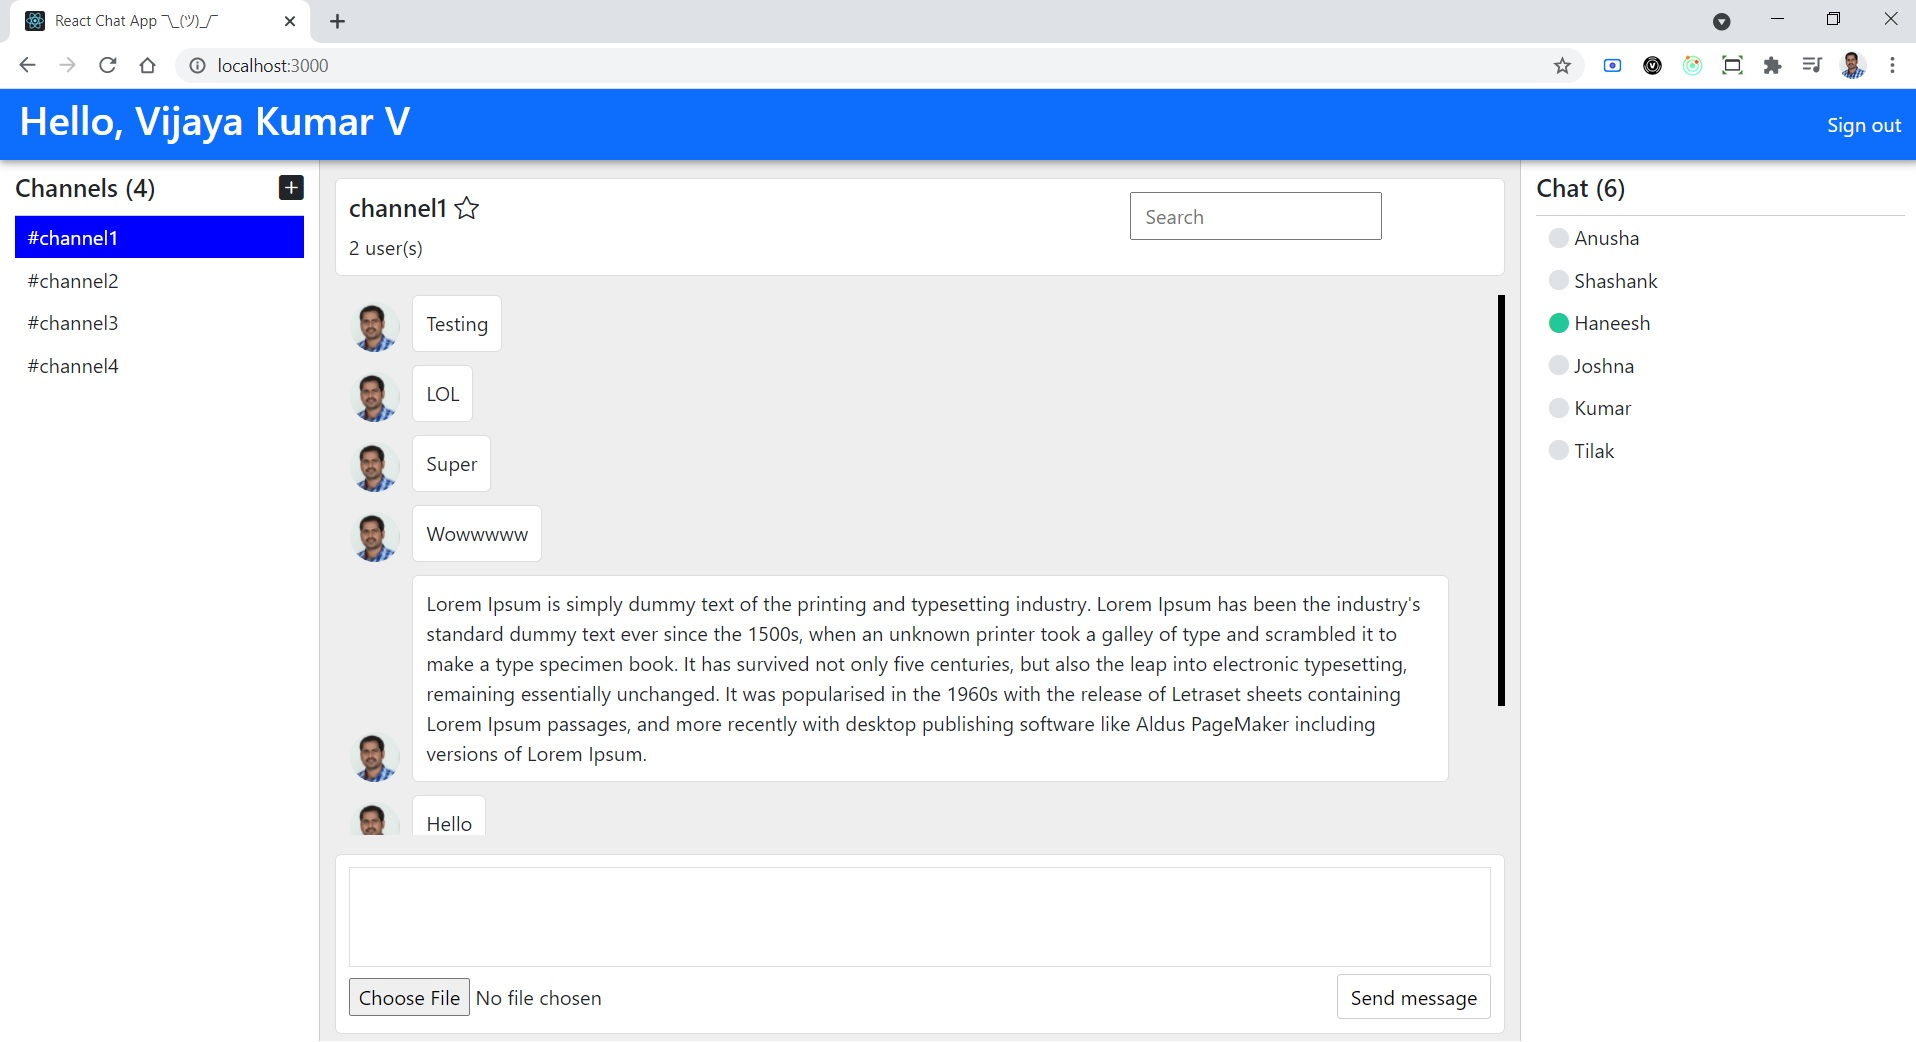
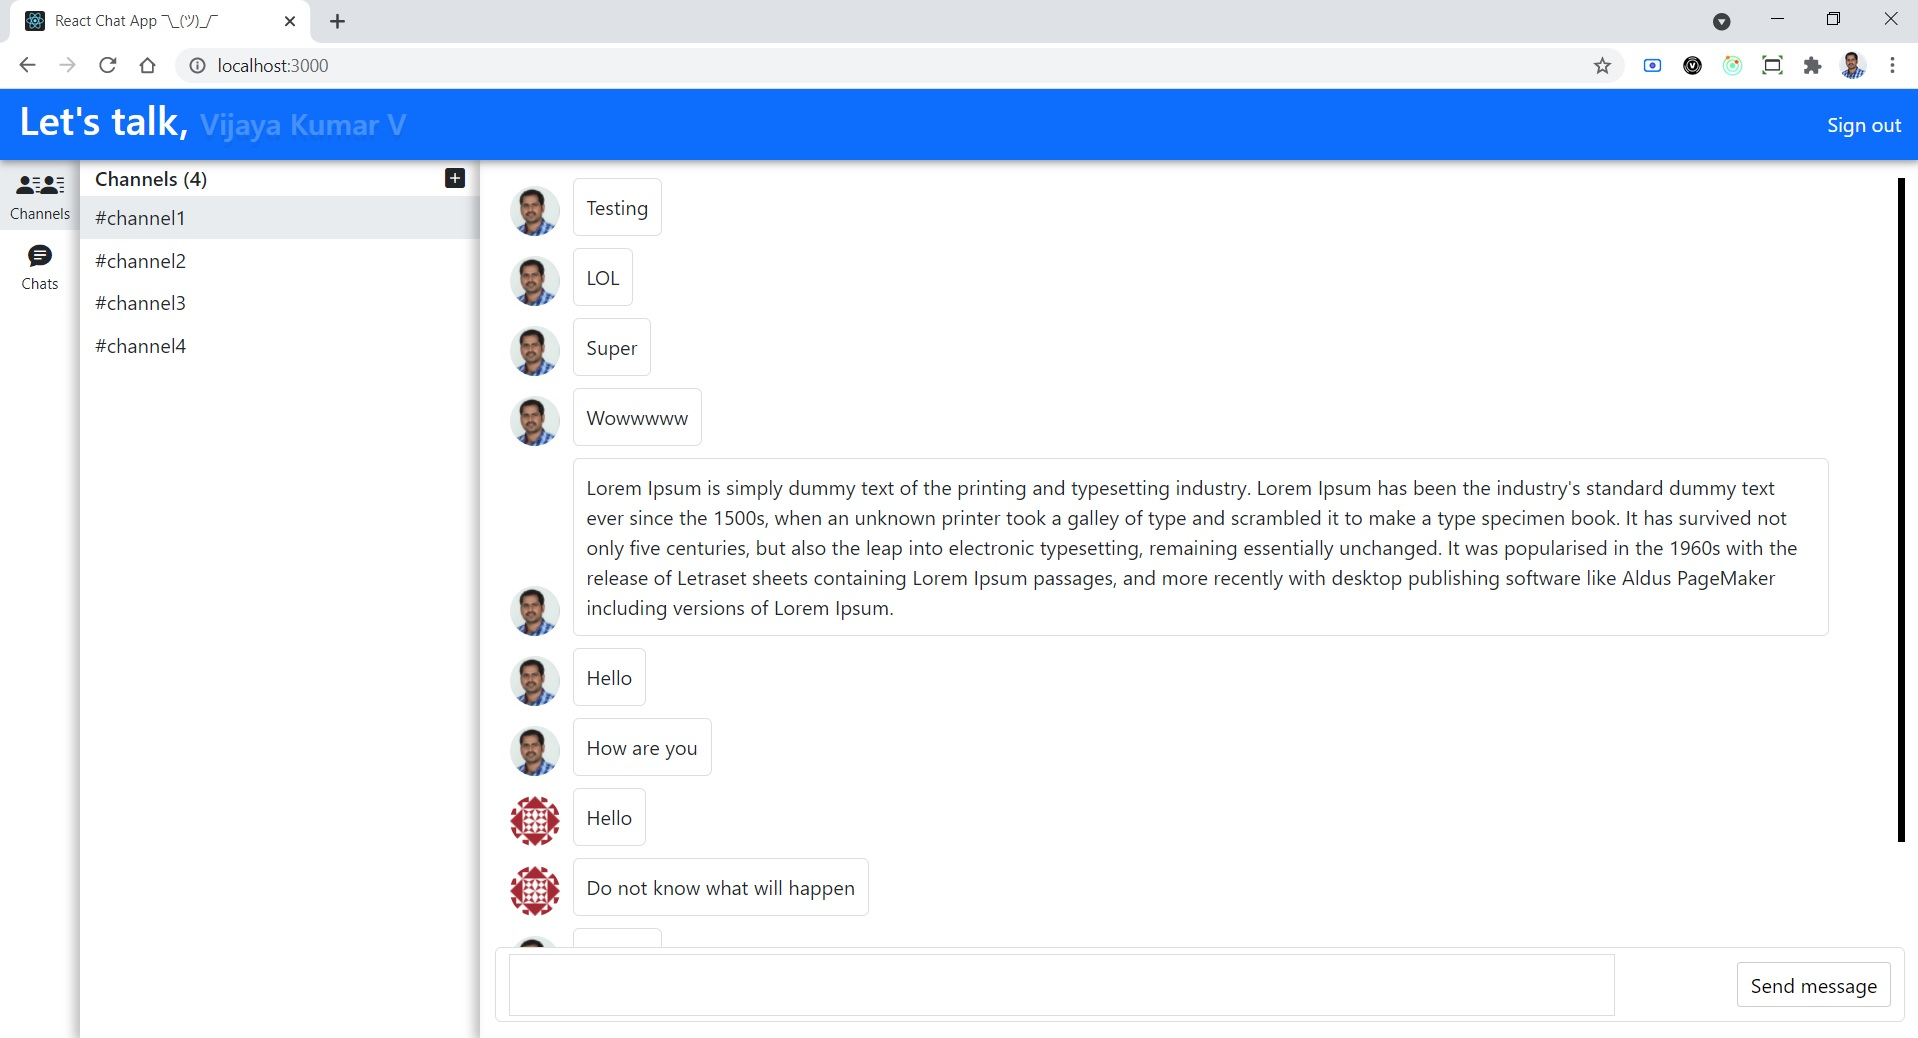
UI/UX and
clean up console logs

diff --git a/src/components/chatspanel/channelpanel.js b/src/components/chatspanel/channelpanel.js
@@ -9,27 +9,27 @@ function ChannelPanel (props) {
   const [activeFeature, setActiveFeature] = useState('channels');
 
   const handleChange = (name) => {
-    // console.log(name);
+    setActiveFeature(name);
   }
 
   return (
     <div className="row">
       <div className="col-md-2 chat-features">
         <ul className="features-list">
-          <li className={"chat-channel-icon " + (activeFeature === 'channels' ? 'active' : '')} onClick={handleChange('channels')}>
+          <li className={"chat-channel-icon " + (activeFeature === 'channels' ? 'active' : '')} onClick={() => handleChange('channels')}>
             <i className="bi bi-person-lines-fill"></i>
             <i className="bi bi-person-lines-fill"></i>
             <span>Channels</span>
           </li>
-          <li className={"chat-icon " + (activeFeature === 'chats' ? 'active' : '')} onClick={handleChange('chats')}>
+          <li className={"chat-icon " + (activeFeature === 'chats' ? 'active' : '')} onClick={() => handleChange('chats')}>
             <i className="bi bi-chat-text-fill"></i>
             <span>Chats</span>
           </li>
         </ul>
       </div>
       <div className="col-md-10 list-panel">
-        <Channels currentUser={user} />
-        <Chats currentUser={user} />
+        {( activeFeature === 'channels' ? <Channels currentUser={user} /> : '' )}
+        {( activeFeature === 'chats' ? <Chats currentUser={user} /> : '' )}
       </div>
     </div>
   )

diff --git a/src/components/chatspanel/chats.js b/src/components/chatspanel/chats.js
@@ -13,6 +13,7 @@ function Chats (props) {
 
   const [users, setUsers] = useState();
   const [isUsersLoaded, setIsUsersLoaded] = useState(false);
+  const [selectedUser, setSelectedUser] = useState('');
 
   const addStatusToUser = (userUid, connected = true) => {
     const updatedUsers = users.reduce((acc, user) => {
@@ -80,6 +81,7 @@ function Chats (props) {
       name: user.name
     }
     setCurrentChannel(channelData);
+    setSelectedUser(user.name);
     setPrivateChannel(true);
   }
 
@@ -97,7 +99,10 @@ function Chats (props) {
         {
           users && users.map((user) => {
             return (
-            <li key={user.uid} onClick={() => changeChannel(user) }>
+            <li
+              className={user.name === selectedUser ? 'active': ''}
+              key={user.uid}
+              onClick={() => changeChannel(user) }>
               <i className="bi bi-circle-fill" style={{color: isUserStatus(user) ? '#20c997' : '#dee2e6' }}></i> {' '}
               <span>{ user.name }</span>
             </li>

diff --git a/src/components/chatspanel/index.css b/src/components/chatspanel/index.css
@@ -15,9 +15,12 @@
 }
 
 .chat-features li.active,
-.channel-list li.active {
-  background-color: var(--bs-blue);
-  color: var(--bs-white);
+.channel-list li.active,
+.users-list li.active,
+.chat-features li:hover,
+.channel-list li:hover,
+.users-list li:hover {
+  background-color: var(--bs-gray-200);
 }
 
 .chat-features li i {
@@ -28,13 +31,8 @@
   display: block;
 }
 
-.chat-features,
 .list-panel {
-  background-color: var(--bs-gray-100);
-}
-
-.list-panel {
-  box-shadow: -1px 0 5px rgb(0 0 0 / 24%);
+  box-shadow: -5px 0 8px rgb(0 0 0 / 24%);
 }
 
 .chat-channels h6,
@@ -43,16 +41,9 @@
   padding: 5px 0;
 }
 
-.chat-channels h6 span,
-.chat-userslist h6 span {
-  color: var(--bs-white);
-}
-
-.chat-channels .bi-plus-square-fill {
-  cursor: pointer;
-}
-
+.chat-channels .bi-plus-square-fill,
 .chat-features li,
-.channel-list li {
+.channel-list li,
+.users-list li {
   cursor: pointer;
 }

diff --git a/src/redux/actions.js b/src/redux/actions.js
@@ -28,7 +28,6 @@ const currentChannel = channel => {
 }
 
 export const setCurrentChannel = channel => {
-  console.log('set current channel actions');
   store.dispatch(currentChannel(channel));
 }
 
@@ -42,6 +41,5 @@ const privateChannel = isPrivateChannel => {
 }
 
 export const setPrivateChannel = isPrivateChannel => {
-  console.log('set private channel actions')
   store.dispatch(privateChannel(isPrivateChannel));
 }

diff --git a/src/components/chatspanel/channels.js b/src/components/chatspanel/channels.js
@@ -75,13 +75,11 @@ function Channels (props) {
   }
 
   const changeChannel = channel => {
-    console.log('change channel');
     setActiveChannel(channel.id);
     setCurrentChannel(channel);
   }
 
   useEffect(() => {
-    console.log('channels', channels);
     channelListners();
     if(channels && channels.length > 0) {
       const firstChannel = channels[0];

diff --git a/src/redux/reducers.js b/src/redux/reducers.js
@@ -30,7 +30,6 @@ const initialChannelState = {
 }
 
 const channel_reducer = (state = initialChannelState, action) => {
-  console.log('set current channel reducers');
   switch (action.type) {
     case actionTypes.SET_CURRENT_CHANNEL:
       return {

diff --git a/src/components/chatswindow/chatform.js b/src/components/chatswindow/chatform.js
@@ -36,7 +36,6 @@ function ChatForm (props) {
   }
 
   const uploadFile = (file, metadata) => {
-    // console.log('test');
     // const pathToUpload = channel.id;
     // const ref = messagesRef;
     const filePath = `chat/public/${uuidv4}.jpg`;

diff --git a/src/index.js b/src/index.js
@@ -22,7 +22,6 @@ import Login from './auth/login';
 function Root (props) {
 
   useEffect(() => {
-    console.log('index');
     firebase.auth().onAuthStateChanged(user => {
       if (user) {
         props.setUser(user);

diff --git a/src/components/chatswindow/chat.css b/src/components/chatswindow/chat.css
@@ -3,7 +3,7 @@
   position: relative;
   padding-top: 15px;
   padding-bottom: 15px;
-  box-shadow: 0 0 50px rgb(0 0 0 / 40%);
+  box-shadow: -5px 0 8px rgb(0 0 0 / 24%);
 }
 
 .chat-window-header,

diff --git a/README.md b/README.md
@@ -3,3 +3,5 @@ Building a chat application with React and Firebase
 
 
 ![image](https://github.com/vulchivijay/react-chat-app/blob/main/public/screenshots/chat-window.jpg)
+
+![image](https://github.com/vulchivijay/react-chat-app/blob/main/public/screenshots/users-window.jpg)
